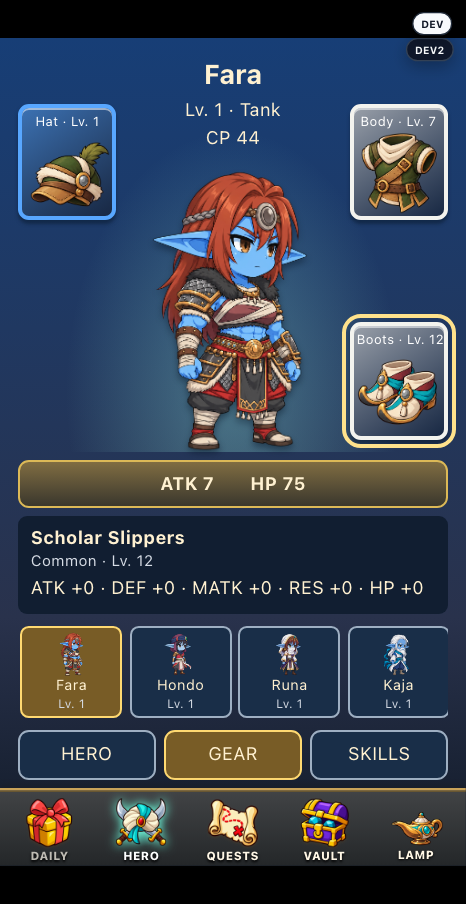
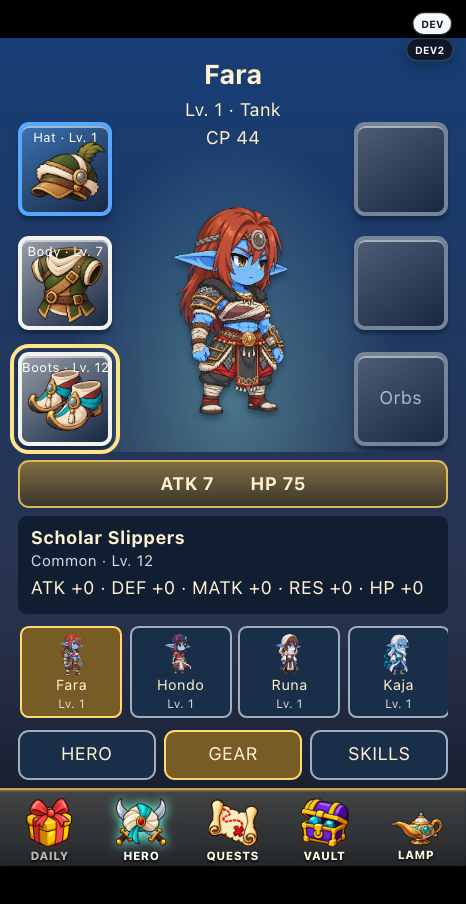
feat(hero): arrange six equipment boxes around hero bd-ORKA-5af.5

Changed region(s): [[0.0, 0.0929, 0.2704, 0.5265], [0.721, 0.0929, 0.9914, 0.4956], [0.3305, 0.1858, 0.6609, 0.5265]]

diff --git a/web-runner/systems/renderHeroScreen.js b/web-runner/systems/renderHeroScreen.js
@@ -21,13 +21,15 @@ export function renderHeroScreen({equipmentProgress,canvas,gameState,fnContext,h
    #hero-details button:focus-visible{outline:3px solid #50cfff;outline-offset:2px} #hero-details button[aria-pressed=true]{background:#785c26;border-color:#ffd971}
    #hero-details nav{display:flex;gap:.5em;justify-content:space-between;flex:none} #hero-details .tabs button{flex:1}
    #hero-details .identity{position:relative;text-align:center;flex:1;min-height:0;background:radial-gradient(ellipse at 50% 85%,#8ee0d560,transparent 55%);isolation:isolate}
-   #hero-details .hero-portrait{position:absolute;width:70%;height:72%;object-fit:contain;left:15%;bottom:0;z-index:-1;filter:drop-shadow(0 .3em .2em #07172a80)}
+   #hero-details .hero-portrait{position:absolute;width:50%;height:72%;object-fit:contain;left:25%;bottom:0;z-index:-1;filter:drop-shadow(0 .3em .2em #07172a80)}
    #hero-details h1{margin:0;font-size:1.5em} #hero-details p{margin:.2em 0} #hero-details h2{font-size:1em;margin:0}
    #hero-details .power-bar{display:flex;justify-content:center;gap:2em;flex:none;padding:.5em;border:1px solid #dcb957;border-radius:.6em;background:linear-gradient(#806d42,#3a372d);font-weight:bold}
    #hero-details .power-bar span{display:flex;gap:.5em}
-   #hero-details .gear-slots{position:absolute;inset:0;pointer-events:none} #hero-details button.gear-slot{position:absolute;width:23%;pointer-events:auto;padding:.2em;border:2px solid var(--rarity);background:linear-gradient(145deg,color-mix(in srgb,var(--rarity) 60%,#122241),#182843);box-shadow:inset 0 1px #fff8,0 .2em .2em #07172a80}
-   #hero-details .gear-slot[data-slot=hat]{left:0;top:12%} #hero-details .gear-slot[data-slot=body]{right:0;top:12%} #hero-details .gear-slot[data-slot=boots]{right:0;bottom:3%}
-   #hero-details .gear-slot[aria-pressed=true]{outline:2px solid #ffe28c;outline-offset:2px} #hero-details .gear-slot small{color:white;font-size:.72em;white-space:nowrap} #hero-details .gear-slot .lamp-art{width:100%} #hero-details .gear-empty{display:grid;place-items:center;aspect-ratio:1;font-size:.85em;color:#c3cbd8}
+   #hero-details .gear-slots{position:absolute;inset:3.5em 0 .2em;display:grid;grid-template-columns:22% 1fr 22%;grid-template-rows:repeat(3,minmax(0,1fr));gap:max(.6em,8px) 0;pointer-events:none}
+   #hero-details .gear-slot{position:relative;width:100%;aspect-ratio:1;align-self:center;min-height:0;padding:.2em;border:2px solid var(--rarity);border-radius:.6em;background:linear-gradient(145deg,color-mix(in srgb,var(--rarity) 60%,#122241),#182843);box-shadow:inset 0 1px #fff8,0 .2em .2em #07172a80}
+   #hero-details button.gear-slot{pointer-events:auto;min-height:0;padding:.2em;border:2px solid var(--rarity);background:linear-gradient(145deg,color-mix(in srgb,var(--rarity) 60%,#122241),#182843)}
+   #hero-details .gear-slot[aria-pressed=true]{outline:2px solid #ffe28c;outline-offset:2px} #hero-details .gear-slot small{position:absolute;top:.2em;left:0;width:100%;color:white;font-size:.72em;white-space:nowrap;z-index:1} #hero-details .gear-slot .lamp-art{display:block;width:100%} #hero-details .gear-empty{position:absolute;inset:0;display:grid;place-items:center;font-size:.85em;color:#c3cbd8}
+   #hero-details button.gear-placeholder{cursor:default;color:#aab8cb}
    #hero-details .pane{overflow:auto;flex:1;overflow-wrap:anywhere} #hero-details[data-tab=gear] .pane{flex:none;height:5.4em;padding:.5em .7em;background:#111e31;border-radius:.5em} #hero-details:not([data-tab=gear]) .identity{flex:none;height:11em} #hero-details:not([data-tab=gear]) .hero-portrait{height:45%}
    #hero-details small{display:block;color:#d6dce5} #hero-details .roster{display:flex;flex:none;gap:.4em;overflow-x:auto;padding:.15em;margin:0} #hero-details .roster button{flex:0 0 calc((100% - 1.2em)/4);font-size:.8em;min-height:0;padding:.25em} #hero-details .roster img{display:block;width:100%;height:3em;object-fit:contain}
    #hero-details progress{width:100%;accent-color:#e4b354} #hero-details details{margin:.5em 0} #hero-details summary{cursor:pointer;padding:.5em 0} #hero-details dl{display:grid;grid-template-columns:repeat(3,1fr);gap:.5em;margin:.5em 0} #hero-details dd{margin:0} #hero-details article{border-top:1px solid #718198;padding:.7em 0}

diff --git a/output/qa/hero-equip/README.md b/output/qa/hero-equip/README.md
@@ -1,15 +1,19 @@
 # Hero equipment presentation proof
 
-Owner requested the supplied Archero 2 composition and a Wishfire power bar that shows the higher attack stat. The Gear landing view now surrounds existing full-body art with Hat/Body/Boots cards. Inspecting a card reveals its saved name, rarity, level and bonuses. The bar compares ATK with stored MAG, displays MAG as MATK, and chooses ATK on equality. HERO retains numeric EXP; SKILLS and every saved roster record remain reachable.
+Owner requested the supplied Archero 2 composition and a Wishfire power bar that shows the higher attack stat. The Gear landing view now surrounds centered full-body art with six boxes: Hat/Body/Boots on the left, two blank equipment boxes and a disabled future Orbs slot on the right. Inspecting a card reveals its saved name, rarity, level and bonuses. The bar compares ATK with stored MAG, displays MAG as MATK, and chooses ATK on equality. HERO retains numeric EXP; SKILLS and every saved roster record remain reachable.
 
-Run from this worktree: `node output/qa/hero-equip/verify.cjs` against the existing localhost:8035 server. The installed Playwright dependency is reused. Four phone profiles PASS for separate cards/focus rings, containment above game navigation, level labels, selected inspection, ATK equality/greater and MATK greater, EXP/skills and primary VAULT/HERO navigation, and unchanged equipment save. Seven focused hero contracts PASS. Browser module syntax check PASS via `node --input-type=module --check < web-runner/systems/renderHeroScreen.js`.
+Run from this worktree: `node output/qa/hero-equip/verify.cjs` against the existing localhost:8035 server. The installed Playwright dependency is reused. Four phone profiles PASS for separate cards/focus rings, containment above game navigation, level labels, selected inspection, ATK equality/greater and MATK greater, EXP/skills and primary VAULT/HERO navigation, and unchanged equipment save. The focused Hero screen contract PASS. Browser module syntax check PASS via `node --input-type=module --check < web-runner/systems/renderHeroScreen.js`.
 
 The fixture stages levels 1/7/12 and valid six-stat gear records with Hat MAG+3 and all other bonuses zero, solely to exercise equal attack values. It makes no progression, eligibility or timing claim. The initial malformed fixture and an early render-tick assertion failed; their raw videos remain local. Compact visual review found overlapping cards; spacing was repaired and the separation assertion added before the final PASS.
 
 Native earned profile: 835×1025, DPR2, Canvas CSS [129.5,0,576,1025], backing [1152,2050]. `native-earned.png` shows Fara's existing Guardian Cuirass level1, ATK8/HP83; `native-matk.png` shows Runa MATK16/HP60. These final screenshots were captured through the existing in-app Browser tab. One tab stays open. Raw finalized movie metadata is in video.json; all raw movies remain outside Git.
 
-Existing source-owner mismatch and duplicate canonical/live roster records remain separate owner decisions. Tuning, slots, saved items and ownership are preserved. This lane is not Integration Ready against current main.
+Existing source-owner mismatch and duplicate canonical/live roster records remain separate owner decisions. Tuning, saved item types, items and ownership are preserved. This lane is not Integration Ready against current main.
 
 Owner follow-up removes Back because Hero belongs to main navigation. The revised four-phone guard requires no Back control and leaves/reenters through VAULT/HERO; shared navigation remains the exit path.
 
-Full-flow review found portrait/CP overlap in the short HERO/SKILLS header. The non-Gear portrait now occupies the lower45% of that existing header; the four-phone guard verifies its box starts below the CP title. Gear composition remains unchanged.
+Full-flow review found portrait/CP overlap in the short HERO/SKILLS header. The non-Gear portrait now occupies the lower45% of that existing header; the four-phone guard verifies its box starts below the CP title. The larger Gear stage remains separate from the short header.
+
+Latest owner composition: Gear has six square boxes in two columns and a centered portrait. The two right-hand equipment placeholders are blank and unassigned; Orbs stays disabled until that system exists. Skill descriptions render only in the Skills tab. The four-phone guard asserts exact box counts, column order, blank placeholders, disabled Orbs, focus-ring separation and no skill articles in Gear. `native-six-boxes.png` captures the earned profile after this change; earlier native images and films show superseded presentation.
+
+Latest raw fixture film is retained and hash-ledgered. `/opt/homebrew/bin/ffprobe` failed to load `libx265.215.dylib`; its duration remains unverified. Final native screenshot and four-phone browser assertions provide the UI proof. No dependency installation was attempted.

diff --git a/web-runner/systems/AGENTS.md b/web-runner/systems/AGENTS.md
@@ -223,7 +223,7 @@
 
 - Hero Gear inspection displays the owned item level beside rarity. Read the existing item record; presentation must never reroll, rescale, reassign or mutate saved gear.
 
-- Hero equipment presentation uses the existing three slots around the full-body hero and reserves the bottom navigation area. Cards inspect saved items without mutation; the power bar displays the greater of ATK or MAG, labeling MAG as MATK (ties show ATK). Keep HERO/GEAR/SKILLS, numeric EXP and every supported roster record reachable.
+- Hero equipment presentation shows six boxes around the centered full-body hero: Hat/Body/Boots on the left, two blank unassigned equipment boxes and a disabled future Orbs slot on the right and reserves the bottom navigation area. Cards inspect saved items without mutation; the power bar displays the greater of ATK or MAG, labeling MAG as MATK (ties show ATK). Gear is the landing view; skill descriptions belong only in SKILLS. Keep HERO/GEAR/SKILLS, numeric EXP and every supported roster record reachable.
 
 - Hero is a primary shared-navigation destination. Its screen has no Back button; use the existing main navigation to switch destinations.
 
